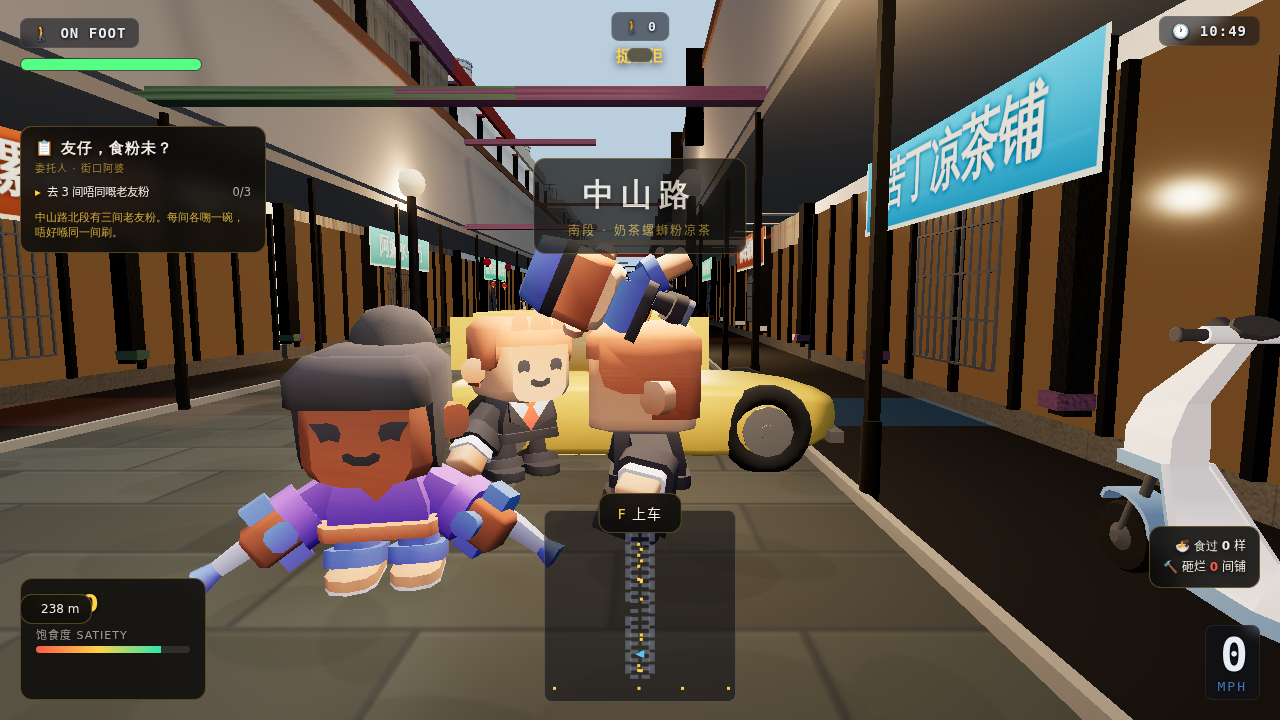
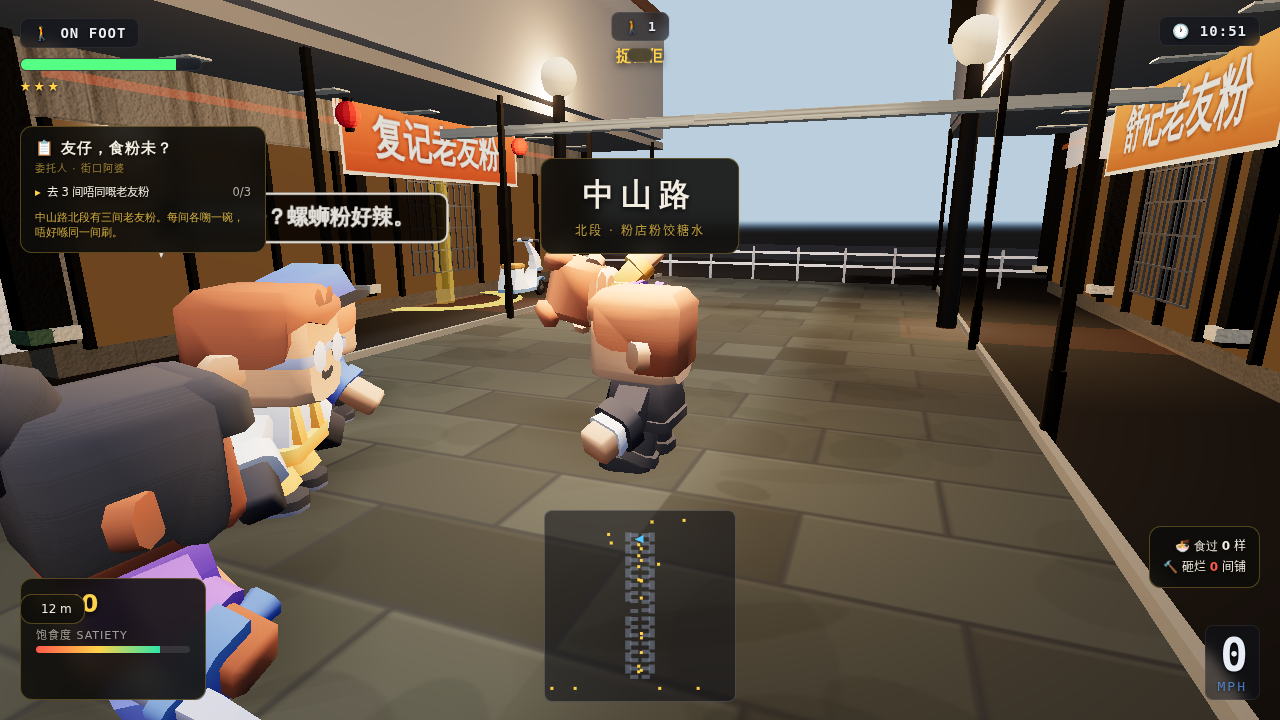
Carry them across the shoulder, and wait for the body to hit the ground
The carried person was centred on the carrier, which put their head
straight on top of the carrier's own — two heads stacked, and the body
looked upside down. The body now lies along the line of the shoulders
with the head out past one of them and the boots past the other, and
nothing of it is inside the carrier's head or neck.

The throw picture is taken when the body is actually on the ground: the
shot waits for somebody to be down instead of firing the throw and
hoping four seconds was enough. The frame has someone down and clear
space between them and the people standing.

The e-bike picture is shot from inside the same bay as the scooter, so no
column stands between the camera and the vehicle. From the street the
colonnade is always in the way, and a column in front of the scooter
reads as the scooter being inside it.

The brawl stills are left as they were — they passed, and there was no
reason to re-shoot them.

tsc clean, 229 tests, build clean.

diff --git a/src/nanning/crowd.ts b/src/nanning/crowd.ts
@@ -469,12 +469,14 @@ export class Crowd {
       // carrier's neck. At three-quarter size, slung down the back, the
       // boots hang behind the carrier and the head clears the shoulder.
       t.group.scale.setScalar(0.72);
-      // Over the shoulders, high enough to clear the carrier's own head, so
-      // the carry reads from the front and not as somebody crouching behind.
-      t.group.position.set(px - rx * 0.16 - fx * 0.3, 1.52, pz - rz * 0.16 - fz * 0.3);
-      // Draped across the shoulders: the body lies along the line of the
-      // shoulders, head to one side, boots to the other.
-      t.group.rotation.set(0, heading, -1.15);
+      // Across the shoulders, the way you would actually carry somebody: the
+      // body lies along the line of the shoulders with the head out past one
+      // of them and the boots past the other. It used to be centred on the
+      // carrier, which put the carried person's head straight on top of the
+      // carrier's own — the two heads stacked, and the body looked upside
+      // down.
+      t.group.position.set(px + rx * 0.42 - fx * 0.12, 1.3, pz + rz * 0.42 - fz * 0.12);
+      t.group.rotation.set(0, heading, -1.35);
       t.x = t.group.position.x;
       t.z = t.group.position.z;
       return;

diff --git a/src/nanning/crowd.test.ts b/src/nanning/crowd.test.ts
@@ -73,12 +73,15 @@ describe('Crowd — street rules', () => {
     // Facing +X with heading 0. The person goes over the shoulder: behind
     // the carrier, down their back, and at three-quarter size so their boots
     // hang behind instead of burying themselves in the carrier's neck.
-    expect(t.group.position.x).toBeGreaterThan(4.4);
-    expect(t.group.position.x).toBeLessThan(4.75);
-    expect(t.group.position.z).toBeLessThan(6.85);
-    expect(t.group.position.y).toBeCloseTo(1.52, 2);
+    // Slightly behind the carrier and out to one side, at shoulder height:
+    // the body lies along the line of the shoulders with the head past one
+    // of them, not stacked on top of the carrier's head.
+    expect(t.group.position.x).toBeGreaterThan(4.7);
+    expect(t.group.position.x).toBeLessThan(5.05);
+    expect(t.group.position.z).toBeGreaterThan(7.2);
+    expect(t.group.position.y).toBeCloseTo(1.3, 2);
     expect(t.group.scale.x).toBeCloseTo(0.72, 2);
     // The body lies across the line of the shoulders, not down the back.
-    expect(t.group.rotation.z).toBeLessThan(-1.0);
+    expect(t.group.rotation.z).toBeLessThan(-1.2);
   });
 });
